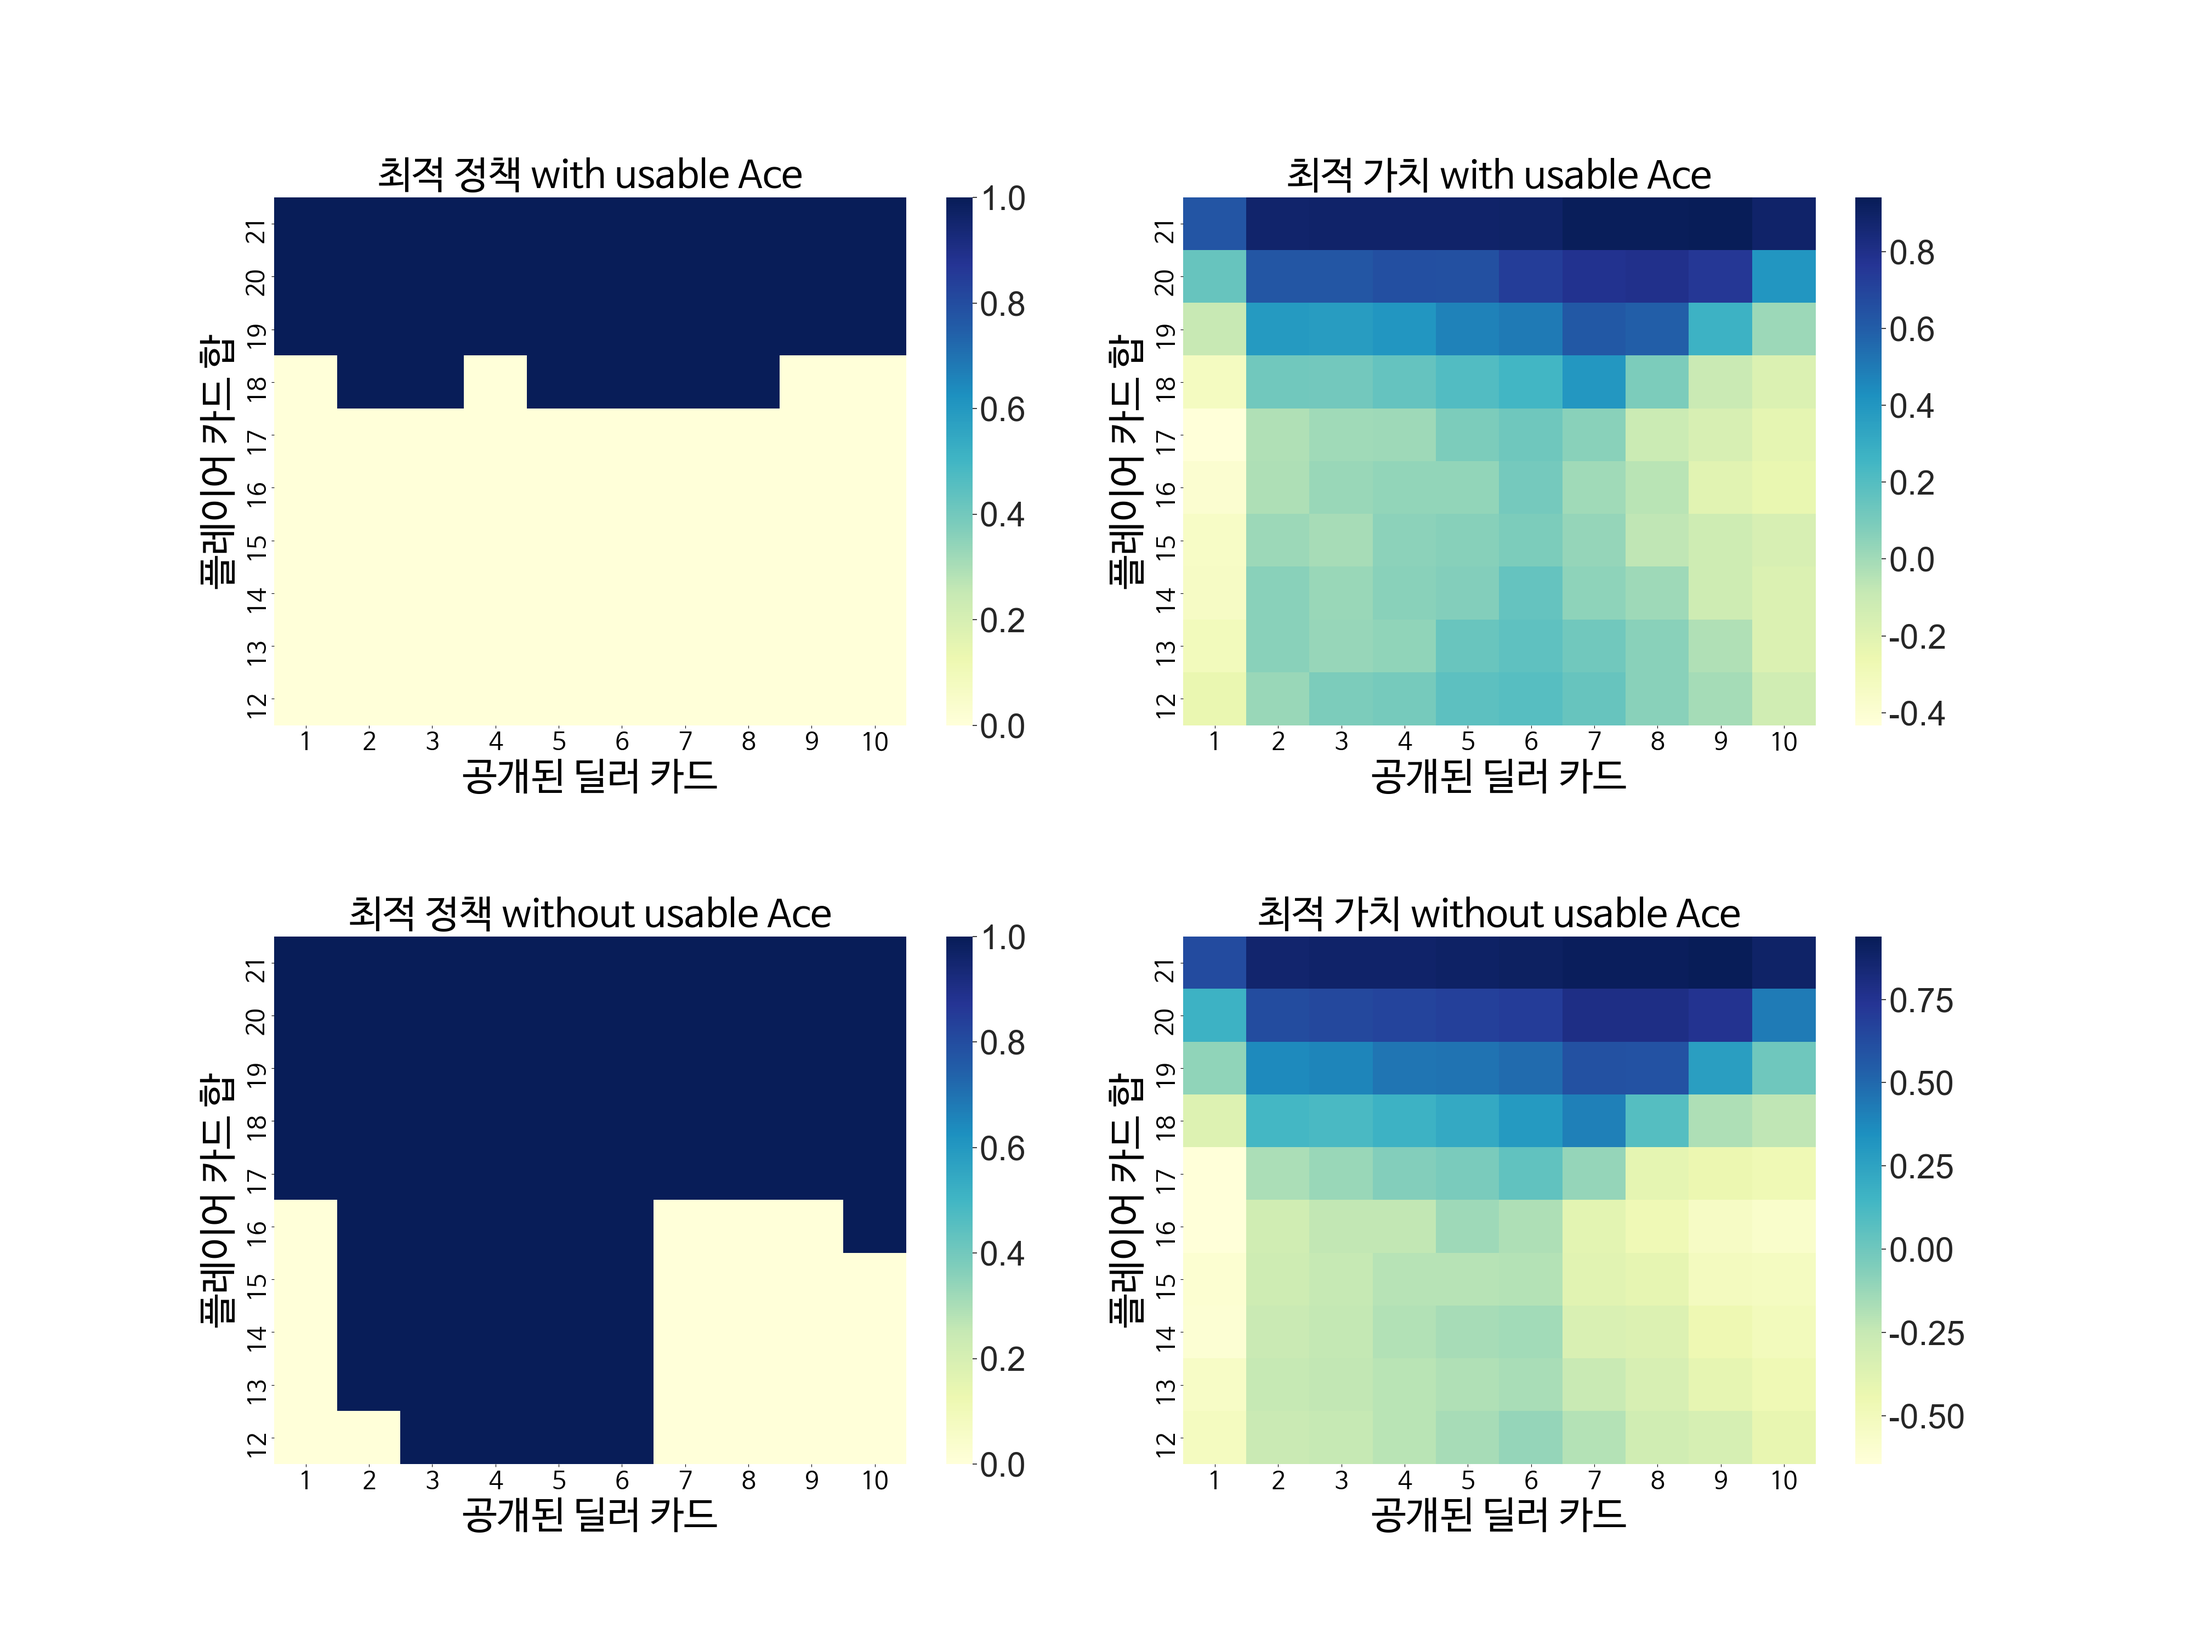
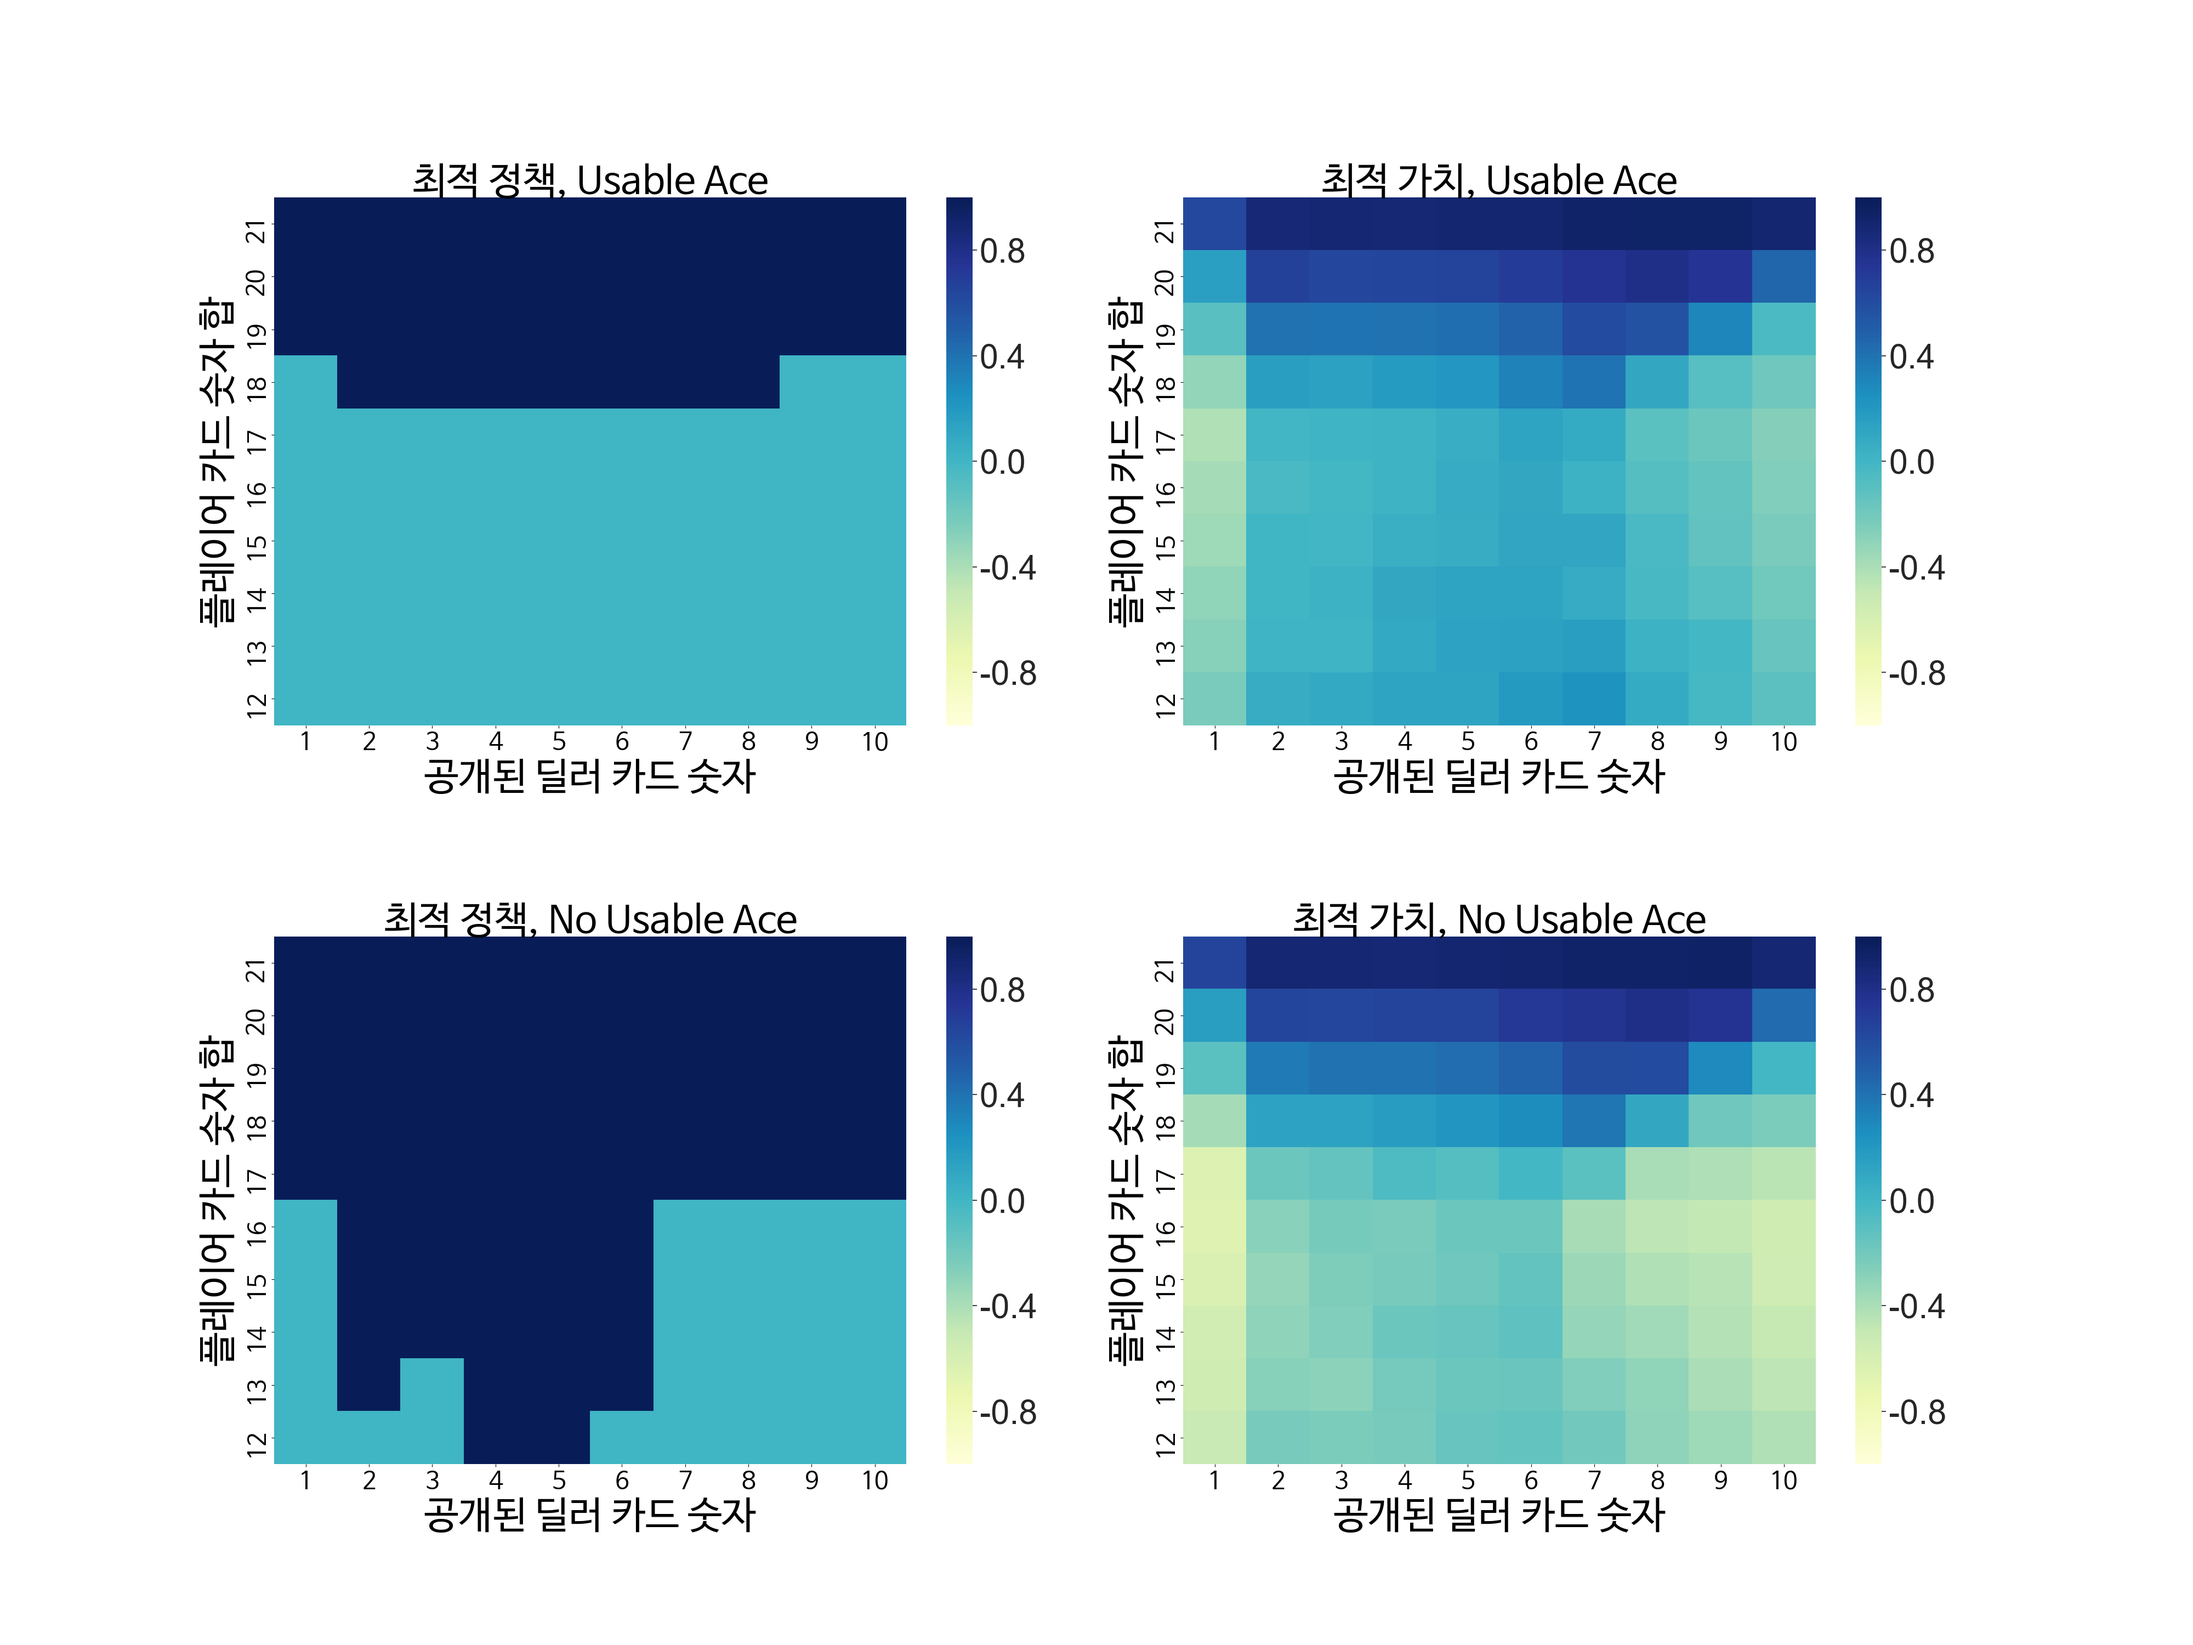
...

diff --git a/chapter_05/grid_world_mc_es_control.py b/chapter_05/grid_world_mc_es_control.py
@@ -1,0 +1,195 @@
+# 사용 패키지 임포트
+import numpy as np
+import random
+from environments.gridworld import GridWorld
+
+GRID_HEIGHT = 4
+GRID_WIDTH = 4
+NUM_ACTIONS = 4
+TERMINAL_STATES = [(0, 0), (GRID_HEIGHT-1, GRID_WIDTH-1)]
+DISCOUNT_RATE = 1.0
+THETA_1 = 0.0001
+THETA_2 = 0.0001
+MAX_EPISODES = 5
+
+
+def softmax(a):
+    exp_a = np.exp(a)
+    sum_exp_a = np.sum(exp_a)
+    y = exp_a / sum_exp_a
+
+    return y
+
+
+class MonteCarloControl:
+    def __init__(self, env):
+        self.env = env
+
+        self.max_iteration = MAX_EPISODES
+
+        self.terminal_states = [(0, 0), (4, 4)]
+
+        self.action_state_values = None
+        self.policy = self.generate_random_policy()
+
+    # 모든 상태에서 수행 가능한 행동에 맞춰 임의의 정책을 생성함
+    # 초기에 각 행동의 선택 확률은 모두 같음
+    def generate_random_policy(self):
+        policy = dict()
+
+        for i in range(GRID_HEIGHT):
+            for j in range(GRID_WIDTH):
+                actions = []
+                prob = []
+                for action in range(self.env.action_space.num_actions):
+                    actions.append(action)
+                    prob.append(0.25)
+                policy[(i, j)] = (actions, prob)
+
+        return policy
+
+    # 환경에서 무작위로 에피소드(현재 상태, 행동, 다음 상태, 보상)를 생성함
+    def generate_random_episode(self):
+        episode = []
+        visited_state_actions = []
+
+        i = random.randrange(GRID_HEIGHT)
+        j = random.randrange(GRID_WIDTH)
+        initial_state = (i, j)
+        self.env.moveto(initial_state)
+
+        state = initial_state
+        done = False
+        while not done:
+            actions, prob = self.policy[state]
+            action = np.random.choice(actions, size=1, p=prob)[0]
+            next_state, reward, done, _ = self.env.step(action)
+
+            episode.append(((state, action), reward))
+            visited_state_actions.append((state, action))
+
+            state = next_state
+
+        return episode, visited_state_actions
+
+    # 탐욕적인 정책을 생성함
+    def generate_greedy_policy(self, state_action_values):
+        new_policy = dict()
+
+        is_policy_stable = True
+
+        for i in range(GRID_HEIGHT):
+            for j in range(GRID_WIDTH):
+                if (i, j) in TERMINAL_STATES:
+                    actions = []
+                    action_probs = []
+                    for action in range(self.env.action_space.num_actions):
+                        actions.append(action)
+                        action_probs.append(0.25)
+                    new_policy[(i, j)] = (actions, action_probs)
+                else:
+                    actions = []
+                    q_values = []
+                    for action in self.env.action_space.ACTIONS:
+                        actions.append(action)
+                        q_values.append(state_action_values[((i, j), action)])
+
+                    new_policy[(i, j)] = (actions, softmax(q_values))
+
+        error = 0.0
+        for i in range(GRID_HEIGHT):
+            for j in range(GRID_WIDTH):
+                error += np.sum(np.absolute(np.array(self.policy[(i, j)][1]) - np.array(new_policy[(i, j)][1])))
+
+        if error > THETA_2:
+            is_policy_stable = False
+
+        self.policy = new_policy
+
+        return is_policy_stable, error
+
+
+    # 첫 방문 행동 가치 MC 추정 함수
+    def first_visit_mc_prediction(self, num_iter):
+        # 비어있는 상태-가치 함수를 0으로 초기화하며 생성함
+        state_action_values = dict()
+        returns = dict()
+        for i in range(GRID_HEIGHT):
+            for j in range(GRID_WIDTH):
+                for action in range(NUM_ACTIONS):
+                    state_action_values[((i, j), action)] = 0.0
+                    returns[((i, j), action)] = list()
+
+        for i in range(num_iter):
+            if i % 100 == 0:
+                print(i, end=" ", flush=True)
+            episode, visited_state_actions = self.generate_random_episode()
+
+            G = 0
+            for idx, ((state, action), reward) in enumerate(reversed(episode)):
+                G = DISCOUNT_RATE * G + reward
+
+                value_prediction_conditions = [
+                    (state, action) not in visited_state_actions[:len(visited_state_actions) - idx - 1],
+                    state not in TERMINAL_STATES
+                ]
+
+                if all(value_prediction_conditions):
+                    returns[(state, action)].append(G)
+                    state_action_values[(state, action)] = np.mean(returns[(state, action)])
+        print()
+
+        return state_action_values
+
+
+    # 탐험적 시작 전략 기반의 몬테카를로 방법 함수
+    def first_visit_mc_exploring_control_starts(self):
+        iter_num = 0
+
+        # 정책의 안정성 검증
+        is_policy_stable = False
+
+        print("[[[ MC 제어 반복 시작! ]]]")
+        while not is_policy_stable and iter_num < self.max_iteration:
+            print("*** MC 예측 수행 ***")
+            new_q = self.first_visit_mc_prediction(num_iter=3000)
+            is_policy_stable, error = self.generate_greedy_policy(state_action_values=new_q)
+            print("*** 정책 개선 [에러 값: {0:7.5f}] ***".format(error))
+
+            iter_num += 1
+            print("*** 정책의 안정(Stable) 여부: {0}, 반복 횟수: {1} ***\n".format(
+                is_policy_stable,
+                iter_num
+            ))
+
+        print("[[[ MC 제어 반복 종료! ]]]\n\n")
+
+
+def main():
+    # 그리드 월드 환경 객체 생성
+    env = GridWorld(
+        height=GRID_HEIGHT,
+        width=GRID_WIDTH,
+        start_state=(0, 0),
+        terminal_state=TERMINAL_STATES,
+        transition_reward=-1.0,
+        terminal_reward=-1.0,
+        outward_reward=-1.0
+    )
+    env.reset()
+
+    MC = MonteCarloControl(env)
+    MC.first_visit_mc_exploring_control_starts()
+
+    for i in range(GRID_HEIGHT):
+        for j in range(GRID_WIDTH):
+            print(
+                i, j,
+                ": UP, DOWN, LEFT, RIGHT",
+                MC.policy[(i, j)][1]
+            )
+        print()
+
+
+if __name__ == "__main__":
+    main()

diff --git a/chapter_04/policy_iteration.py b/chapter_04/policy_iteration.py
@@ -27,21 +27,29 @@ class PolicyIteration:
         self.terminal_states = [(0, 0), (4, 4)]
 
         self.state_values = None
-        self.policy = np.empty([GRID_HEIGHT, GRID_WIDTH, self.env.action_space.num_actions])
-
-        for i in range(GRID_HEIGHT):
-            for j in range(GRID_WIDTH):
-                for action in self.env.action_space.ACTIONS:
-                    if (i, j) in TERMINAL_STATES:
-                        self.policy[i][j][action] = 0.00
-                    else:
-                        self.policy[i][j][action] = 0.25
+        self.policy = self.generate_random_policy()
 
         # 정책 평가
         self.delta = 0.0
 
         # 정책 평가의 역
         self.theta = 0.001
+
+    # 모든 상태에서 수행 가능한 행동에 맞춰 임의의 정책을 생성함
+    # 초기에 각 행동의 선택 확률은 모두 같음
+    def generate_random_policy(self):
+        policy = dict()
+
+        for i in range(GRID_HEIGHT):
+            for j in range(GRID_WIDTH):
+                actions = []
+                action_probs = []
+                for action in range(self.env.action_space.num_actions):
+                    actions.append(action)
+                    action_probs.append(0.25)
+                policy[(i, j)] = (actions, action_probs)
+
+        return policy
 
     # 정책 평가 함수
     def policy_evaluation(self):
@@ -62,9 +70,11 @@ class PolicyIteration:
                         for action in self.env.action_space.ACTIONS:
                             (next_i, next_j), reward, prob = env.get_state_action_probability(state=(i, j), action=action)
 
+                            _, action_probs = self.policy[(i, j)]
+
                             # Bellman-Equation, 벨만 방정식 적용
                             values.append(
-                                self.policy[i][j][action] * prob * (reward + DISCOUNT_RATE * old_state_values[next_i, next_j])
+                                action_probs[action] * prob * (reward + DISCOUNT_RATE * old_state_values[next_i, next_j])
                             )
 
                         state_values[i][j] = np.sum(values)
@@ -82,7 +92,7 @@ class PolicyIteration:
 
     # 정책 개선 함수
     def policy_improvement(self):
-        new_policy = np.empty([GRID_HEIGHT, GRID_WIDTH, self.env.action_space.num_actions])
+        new_policy = dict()
 
         is_policy_stable = True
 
@@ -90,19 +100,29 @@ class PolicyIteration:
         for i in range(GRID_HEIGHT):
             for j in range(GRID_WIDTH):
                 if (i, j) in TERMINAL_STATES:
-                    for action in self.env.action_space.ACTIONS:
-                        new_policy[i][j][action] = 0.0
+                    actions = []
+                    action_probs = []
+                    for action in range(self.env.action_space.num_actions):
+                        actions.append(action)
+                        action_probs.append(0.25)
+                    new_policy[(i, j)] = (actions, action_probs)
                 else:
+                    actions = []
                     q_func = []
                     for action in self.env.action_space.ACTIONS:
+                        actions.append(action)
                         (next_i, next_j), reward, prob = env.get_state_action_probability(state=(i, j), action=action)
                         q_func.append(
                             prob * (reward + DISCOUNT_RATE * self.state_values[next_i, next_j])
                         )
 
-                    new_policy[i][j] = softmax(q_func)
+                    new_policy[(i, j)] = (actions, softmax(q_func))
 
-        error = np.sum(np.absolute(self.policy - new_policy))
+        error = 0.0
+        for i in range(GRID_HEIGHT):
+            for j in range(GRID_WIDTH):
+                error += np.sum(np.absolute(np.array(self.policy[(i, j)][1]) - np.array(new_policy[(i, j)][1])))
+
         if error > THETA_2:
             is_policy_stable = False
 
@@ -154,5 +174,9 @@ if __name__ == '__main__':
 
     for i in range(GRID_HEIGHT):
         for j in range(GRID_WIDTH):
-            print(i, j, PI.policy[i][j])  # UP, DOWN, LEFT, RIGHT
+            print(
+                i, j,
+                ": UP, DOWN, LEFT, RIGHT",
+                PI.policy[(i, j)][1]
+            )
         print()

diff --git a/chapter_05/blackjack.py b/chapter_05/blackjack.py
@@ -296,10 +296,10 @@ def mc_exploring_start():
               action_no_usable_ace,
               state_value_no_usable_ace]
 
-    titles = ['최적 정책 with usable Ace',
-              '최적 가치 with usable Ace',
-              '최적 정책 without usable Ace',
-              '최적 가치 without usable Ace']
+    titles = ['최적 정책, Usable Ace',
+              '최적 가치, Usable Ace',
+              '최적 정책, No Usable Ace',
+              '최적 가치, No Usable Ace']
 
     _, axes = plt.subplots(2, 2, figsize=(40, 30))
     plt.subplots_adjust(wspace=0.15, hspace=0.4)
@@ -312,7 +312,10 @@ def mc_exploring_start():
             cmap="YlGnBu",
             ax=axis,
             xticklabels=range(1, 11),
-            yticklabels=list(reversed(range(12, 22)))
+            yticklabels=list(reversed(range(12, 22))),
+            annot_kws={"size": 20},
+            vmin=-1.0,
+            vmax=1.0
         )
         fig.set_ylabel('플레이어 카드 숫자 합', fontsize=50)
         fig.set_xlabel('공개된 딜러 카드 숫자', fontsize=50)
@@ -396,6 +399,6 @@ def mc_off_policy():
 
 if __name__ == '__main__':
     # Monte-Carlo On-policy, 탐험적 시작, Off-policy
-    mc_prediction()
-    #mc_exploring_start()
+    # mc_prediction()
+    mc_exploring_start()
     #mc_off_policy()

diff --git a/chapter_04/policy_evaluation.py b/chapter_04/policy_evaluation.py
@@ -10,6 +10,7 @@ TERMINAL_STATES = [(0, 0), (GRID_HEIGHT - 1, GRID_WIDTH - 1)]
 DISCOUNT_RATE = 1.0
 THETA = 0.0001
 
+
 # 학습 이후의 가치함수를 표 형태로 그리는 함수
 def draw_image(state_values, filename):
     # 축 표시 제거, 크기 조절 등 이미지 그리기 이전 설정 작업

diff --git a/chapter_05/grid_world_mc_prediction_action.py b/chapter_05/grid_world_mc_prediction_action.py
@@ -1,9 +1,6 @@
 # 사용 패키지 임포트
-import os
 import numpy as np
 import random
-import matplotlib.pyplot as plt
-from matplotlib.table import Table
 from environments.gridworld import GridWorld
 
 GRID_HEIGHT = 4
